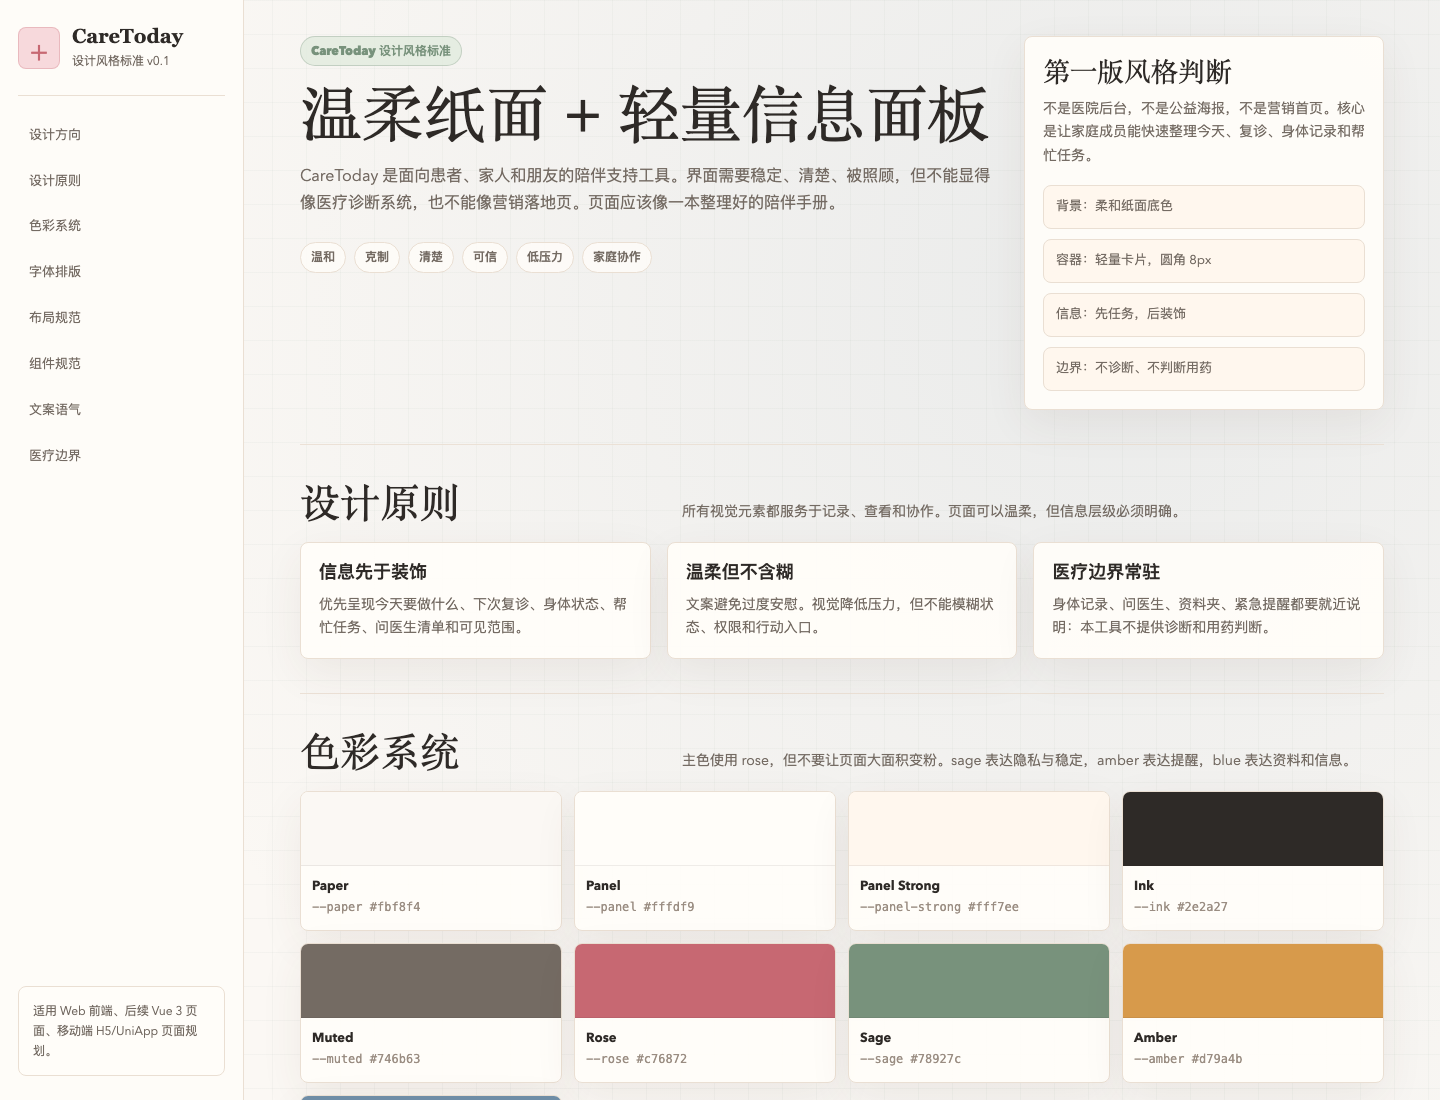
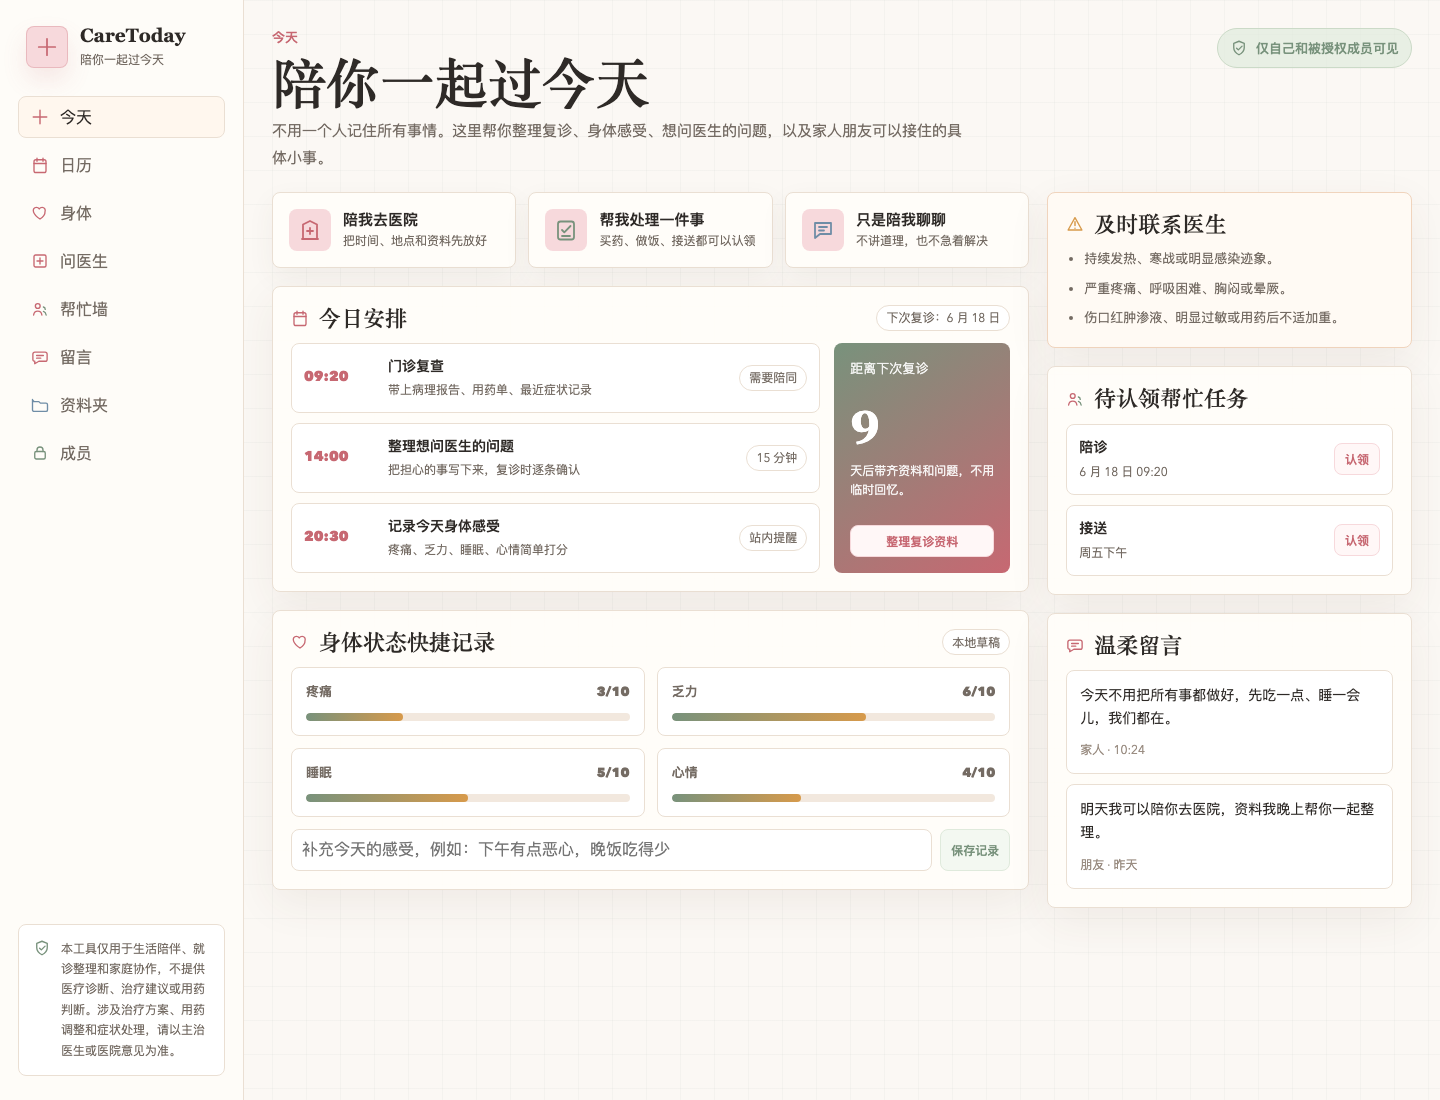
docs: update web preview screenshots

diff --git a/README.md b/README.md
@@ -21,13 +21,20 @@ CareToday 希望把这些事变得更清楚一点：
 
 - `index.html`：Vue 应用入口
 - `design-preview/index.html`：设计风格标准页面
-- `design-preview/preview.png`：设计风格标准截图
+- `design-preview/preview.png`：Web 原型桌面端截图
+- `design-preview/preview-mobile.png`：Web 原型移动端截图
 
 后续计划迁移为 Vue 3 Web 应用，并接入后端 API 和服务端数据库。
 
 ## 页面截图
 
-![CareToday 设计风格标准预览](design-preview/preview.png)
+桌面端：
+
+![CareToday Web 原型桌面端预览](design-preview/preview.png)
+
+移动端：
+
+![CareToday Web 原型移动端预览](design-preview/preview-mobile.png)
 
 ## 设计风格标准
 
@@ -137,7 +144,8 @@ care-today/
   README.md                 项目说明
   docs/design-style-guide.md 设计风格规范文档
   design-preview/index.html 设计风格标准页面
-  design-preview/preview.png 设计风格标准页面截图
+  design-preview/preview.png Web 原型桌面端截图
+  design-preview/preview-mobile.png Web 原型移动端截图
 ```
 
 后续推荐结构：